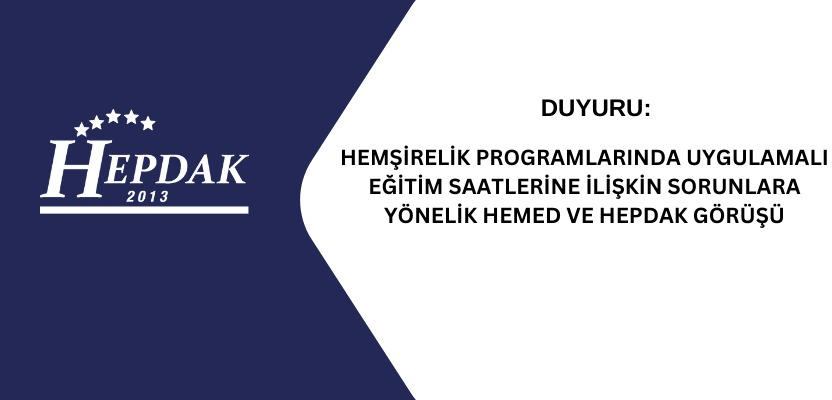
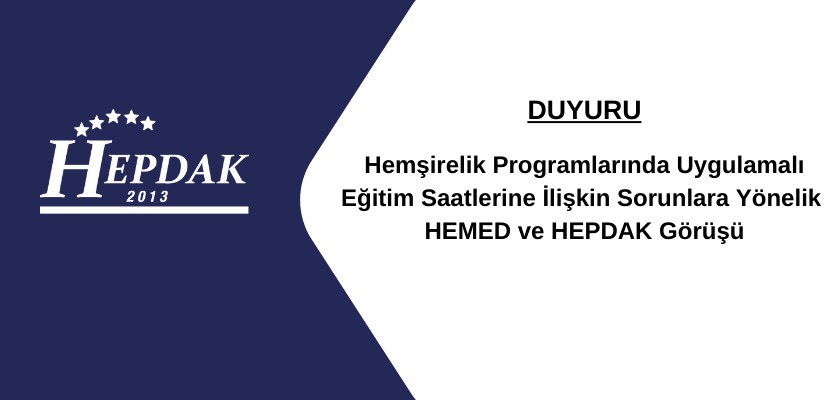
v.7.011
- Web Komisyonuna yeni üye eklendi
- Bazı bannerler yenilendi

Changed region(s): [[0.4062, 0.36, 1.0, 0.6], [0.625, 0.24, 0.7812, 0.33]]

diff --git a/pages/en/boards-commissions.js b/pages/en/boards-commissions.js
@@ -74,7 +74,7 @@ const Kurul = () => (
 	    	<span className="madde-span">• Prof. Dr. Şeyda Seren İntepeler, Dokuz Eylül Üniversitesi</span>
 	    	<span className="madde-span">• Prof. Dr. Zeynep Özer, Akdeniz Üniversitesi</span>
 	    	<span className="madde-span">• Dr. Öğr. Üyesi. Hatice Şen, Uluslararası Kıbrıs Üniversitesi</span>
-	    	<span className="madde-span">• Ar. Gör. İbrahim Kavaslar, Düzce Üniversitesi</span>
+	    	<span className="madde-span">• R. A. İbrahim Kavaslar, Düzce Üniversitesi</span>
 	    	<span className="madde-span">• <strong>Student:</strong> Başak Yazıcı, Ege University</span> 
 	    	
 	    	<h3 className="kurul-title">International Relations Committee Working Directive</h3>
@@ -99,6 +99,7 @@ const Kurul = () => (
 	    	<span className="madde-span">• Ümran YALÇIN (Secretary), HEPDAK Secretary</span>
 	    	<span className="madde-span">• Asst. Prof. Gürkan ÖZDEN, İnönü University</span>
 	    	<span className="madde-span">• R. A. Selcan Zeynep ERGÖZ AKSOY, Izmir University of Economics</span>
+	    	<span className="madde-span">• R. A. Hilal Ersan Yaman, Hacettepe University</span>
 	    </div>
     </MasterPage>
 )

diff --git a/pages/en/index.js b/pages/en/index.js
@@ -61,7 +61,7 @@ const Anasayfa = () => (
                 </div>
                 <div className="carousel-item">
                   <Link href="../doc/en/hepdak-hemed.pdf"><a target="_blank">
-                  <div className="main-top-one-content-full"><img className="slider-full-img" src="img/banner/en/hepdak-hemed.png"/></div>
+                  <div className="main-top-one-content-full"><img className="slider-full-img" src="img/banner/en/hepdak-hemed.jpeg"/></div>
                   </a></Link>
                 </div>
                 <div className="carousel-item">

diff --git a/pages/kurul-ve-komisyonlar.js b/pages/kurul-ve-komisyonlar.js
@@ -102,6 +102,7 @@ const Kurul = () => (
 	    	<span className="madde-span">• Ümran Yalçın (Sekreter), HEPDAK Sekreteri</span>
 	    	<span className="madde-span">• Dr. Öğretim Üyesi Gürkan Özden, İnönü Üniversitesi</span>
 	    	<span className="madde-span">• Ar. Gör. Selcan Zeynep Ergöz Aksoy, İzmir Ekonomi Üniversitesi</span>
+	    	<span className="madde-span">• Ar. Gör. Hilal Ersan Yaman, Hacettepe Üniversitesi</span>
 	    </div>
     </MasterPage>
 )
